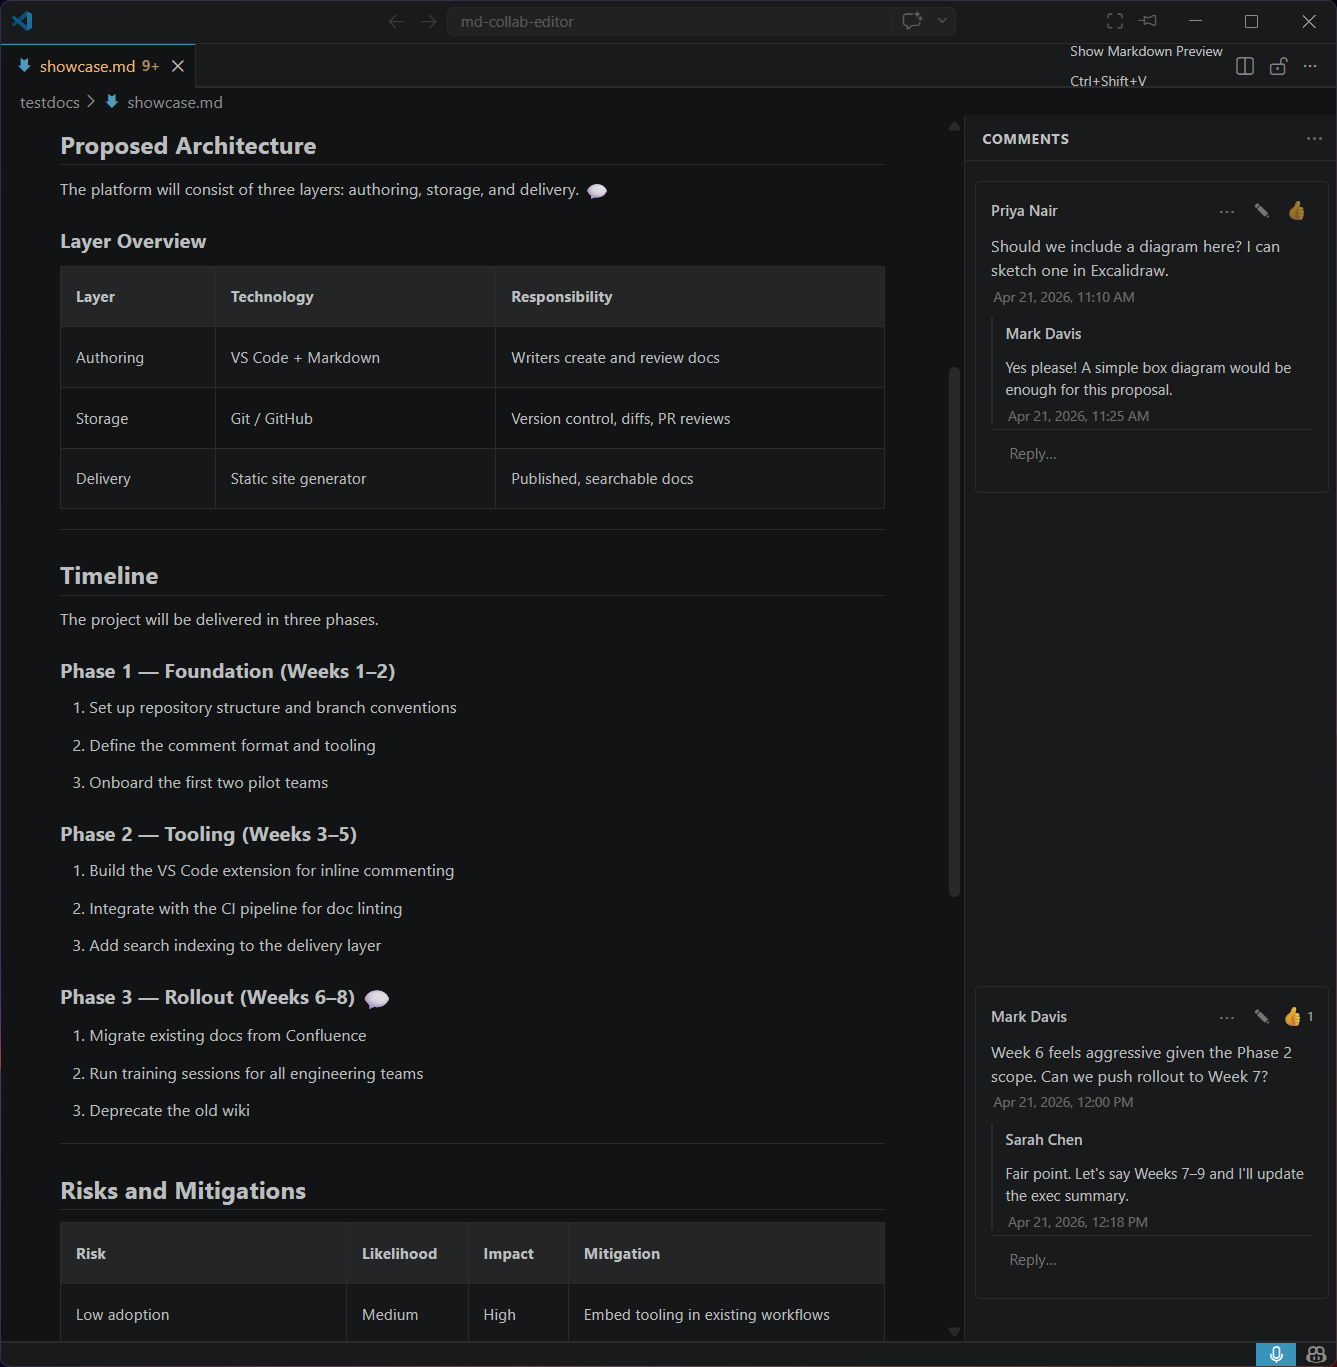
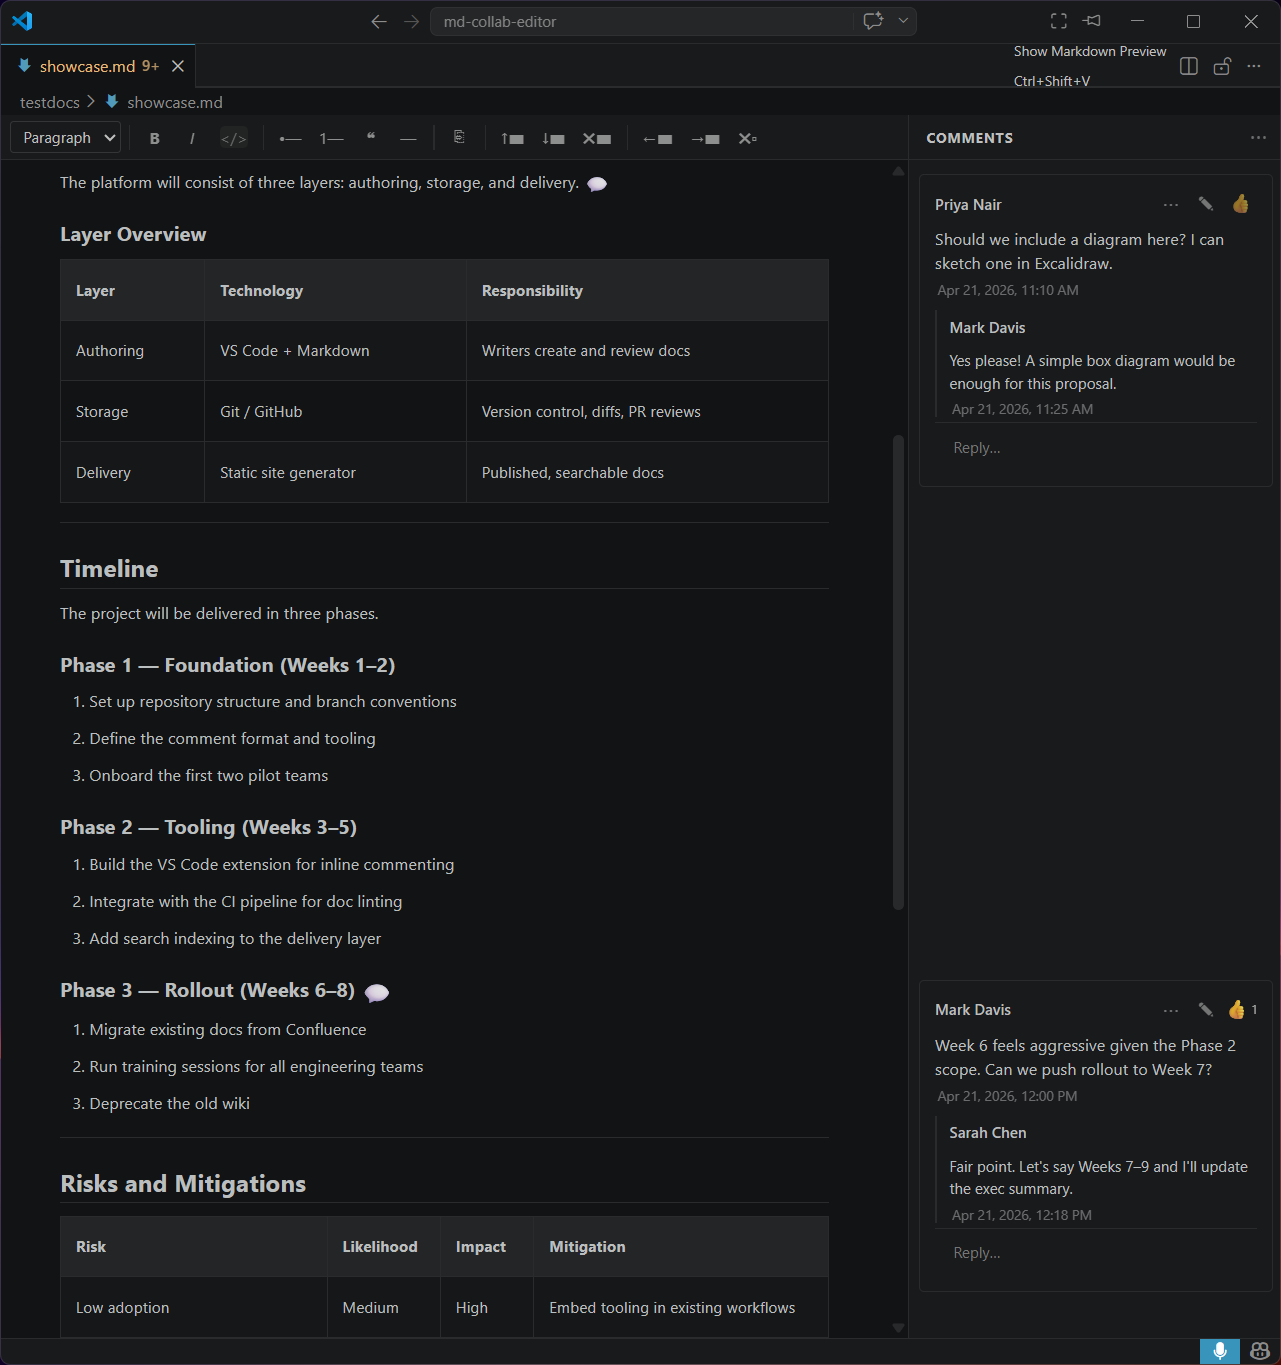
feat: enhance Markdown editor with WYSIWYG toolbar and table editing features

diff --git a/webview-src/index.ts b/webview-src/index.ts
@@ -74,7 +74,29 @@ import {
 import { commonmark } from "@milkdown/preset-commonmark";
 import { gfm } from "@milkdown/preset-gfm";
 import { listener, listenerCtx } from "@milkdown/plugin-listener";
-import { getMarkdown, replaceAll } from "@milkdown/utils";
+import { getMarkdown, replaceAll, callCommand } from "@milkdown/utils";
+import {
+  toggleStrongCommand,
+  toggleEmphasisCommand,
+  toggleInlineCodeCommand,
+  wrapInHeadingCommand,
+  wrapInBulletListCommand,
+  wrapInOrderedListCommand,
+  wrapInBlockquoteCommand,
+  turnIntoTextCommand,
+  insertHrCommand,
+} from "@milkdown/preset-commonmark";
+import {
+  insertTableCommand,
+  addRowBeforeCommand,
+  addRowAfterCommand,
+  addColBeforeCommand,
+  addColAfterCommand,
+  deleteSelectedCellsCommand,
+  selectRowCommand,
+  selectColCommand,
+} from "@milkdown/preset-gfm";
+import { cellAround, TableMap } from "prosemirror-tables";
 
 import { EditorView } from "prosemirror-view";
 
@@ -112,7 +134,7 @@ let mermaidRendering = false;
 let mermaidPendingAfterRender = false;
 
 function positionMermaidOverlays(): void {
-  const pane = document.getElementById("editor-pane")!;
+  const pane = document.getElementById("editor")!;
   const layer = document.getElementById("mermaid-layer")!;
   const paneRect = pane.getBoundingClientRect();
   layer.innerHTML = "";
@@ -197,6 +219,106 @@ function scrollToComment(commentId: string): void {
 
 const panel = new CommentPanel("threads-container", post, scrollToComment);
 
+// ── Toolbar ───────────────────────────────────────────────────────────────────
+
+function runCommand<T>(cmd: { key: string }, payload?: T): void {
+  if (!milkdownEditor) return;
+  milkdownEditor.action(callCommand(cmd.key, payload as never));
+  // Return focus to the editor after toolbar interaction
+  milkdownEditor.action((ctx) => { ctx.get(editorViewCtx).focus(); });
+}
+
+function isInTable(): boolean {
+  if (!editorView) return false;
+  const { $from } = editorView.state.selection;
+  for (let d = $from.depth; d > 0; d--) {
+    if ($from.node(d).type.name === "table") return true;
+  }
+  return false;
+}
+
+function getCurrentRowCol(): { row: number; col: number } | null {
+  if (!editorView) return null;
+  const { state } = editorView;
+  const $cell = cellAround(state.selection.$from);
+  if (!$cell) return null;
+  const table = $cell.node(-1);
+  const tableStart = $cell.start(-1);
+  const map = TableMap.get(table);
+  const cellPos = $cell.pos - tableStart;
+  const cell = map.findCell(cellPos);
+  return { row: cell.top, col: cell.left };
+}
+
+function updateToolbarState(): void {
+  if (!editorView) return;
+  const { state } = editorView;
+  const { from, $from } = state.selection;
+  const parent = $from.node(1) ?? $from.node();
+
+  // Block type selector
+  const sel = document.getElementById("tb-block-type") as HTMLSelectElement;
+  if (sel) {
+    const typeName = parent.type.name;
+    const level = parent.attrs?.level;
+    if (typeName === "heading" && level) sel.value = `h${level}`;
+    else sel.value = "paragraph";
+  }
+
+  // Active mark buttons
+  const marks = state.storedMarks ?? state.selection.$from.marks();
+  const activeMarks = new Set(marks.map((m) => m.type.name));
+  state.doc.nodesBetween(from, from, (n) => {
+    n.marks.forEach((m) => activeMarks.add(m.type.name));
+  });
+  document.getElementById("tb-bold")?.classList.toggle("active", activeMarks.has("strong"));
+  document.getElementById("tb-italic")?.classList.toggle("active", activeMarks.has("em"));
+  document.getElementById("tb-code")?.classList.toggle("active", activeMarks.has("code_inline"));
+
+  // Show/hide table toolbar section
+  const tableTools = document.getElementById("tb-table-tools");
+  if (tableTools) tableTools.style.display = isInTable() ? "flex" : "none";
+}
+
+// Block type dropdown
+document.getElementById("tb-block-type")!.addEventListener("change", (e) => {
+  const val = (e.target as HTMLSelectElement).value;
+  if (val === "paragraph") runCommand(turnIntoTextCommand);
+  else runCommand(wrapInHeadingCommand, parseInt(val.slice(1)));
+});
+
+// Format buttons
+document.getElementById("tb-bold")!.addEventListener("mousedown",  (e) => { e.preventDefault(); runCommand(toggleStrongCommand); });
+document.getElementById("tb-italic")!.addEventListener("mousedown", (e) => { e.preventDefault(); runCommand(toggleEmphasisCommand); });
+document.getElementById("tb-code")!.addEventListener("mousedown",   (e) => { e.preventDefault(); runCommand(toggleInlineCodeCommand); });
+document.getElementById("tb-ul")!.addEventListener("mousedown",     (e) => { e.preventDefault(); runCommand(wrapInBulletListCommand); });
+document.getElementById("tb-ol")!.addEventListener("mousedown",     (e) => { e.preventDefault(); runCommand(wrapInOrderedListCommand); });
+document.getElementById("tb-quote")!.addEventListener("mousedown",  (e) => { e.preventDefault(); runCommand(wrapInBlockquoteCommand); });
+document.getElementById("tb-hr")!.addEventListener("mousedown",     (e) => { e.preventDefault(); runCommand(insertHrCommand); });
+document.getElementById("tb-table")!.addEventListener("mousedown",  (e) => { e.preventDefault(); runCommand(insertTableCommand, { row: 3, col: 3 }); });
+
+// Table editing buttons (shown only when cursor is in a table)
+document.getElementById("tb-row-before")!.addEventListener("mousedown",  (e) => { e.preventDefault(); runCommand(addRowBeforeCommand); });
+document.getElementById("tb-row-after")!.addEventListener("mousedown",   (e) => { e.preventDefault(); runCommand(addRowAfterCommand); });
+document.getElementById("tb-del-row")!.addEventListener("mousedown",     (e) => {
+  e.preventDefault();
+  const pos = getCurrentRowCol();
+  if (pos === null) return;
+  milkdownEditor?.action(callCommand(selectRowCommand.key, { index: pos.row }));
+  milkdownEditor?.action(callCommand(deleteSelectedCellsCommand.key));
+  milkdownEditor?.action((ctx) => { ctx.get(editorViewCtx).focus(); });
+});
+document.getElementById("tb-col-before")!.addEventListener("mousedown",  (e) => { e.preventDefault(); runCommand(addColBeforeCommand); });
+document.getElementById("tb-col-after")!.addEventListener("mousedown",   (e) => { e.preventDefault(); runCommand(addColAfterCommand); });
+document.getElementById("tb-del-col")!.addEventListener("mousedown",     (e) => {
+  e.preventDefault();
+  const pos = getCurrentRowCol();
+  if (pos === null) return;
+  milkdownEditor?.action(callCommand(selectColCommand.key, { index: pos.col }));
+  milkdownEditor?.action(callCommand(deleteSelectedCellsCommand.key));
+  milkdownEditor?.action((ctx) => { ctx.get(editorViewCtx).focus(); });
+});
+
 // ── Milkdown setup ────────────────────────────────────────────────────────────
 
 async function createEditor(
@@ -214,6 +336,10 @@ async function createEditor(
         }
         debouncedEdit(markdown);
       });
+
+      ctx.get(listenerCtx).updated((_ctx, _doc, _prevDoc) => {
+        requestAnimationFrame(updateToolbarState);
+      });
     })
     .use(commonmark)
     .use(gfm)
@@ -224,6 +350,13 @@ async function createEditor(
   editor.action((ctx) => {
     const view = ctx.get(editorViewCtx);
     editorView = view as unknown as EditorView;
+
+    // Update toolbar on every selection change
+    const originalDispatch = view.dispatch.bind(view);
+    (view as { dispatch: typeof view.dispatch }).dispatch = (tr) => {
+      originalDispatch(tr);
+      if (tr.selectionSet || tr.docChanged) requestAnimationFrame(updateToolbarState);
+    };
 
     const anchorPlugin = createAnchorPlugin(
       anchors,
@@ -330,7 +463,7 @@ function hideCtxMenu(): void {
 // by posting an openFile message to the extension host; everything else is
 // allowed to bubble (external URLs are blocked by the webview CSP anyway).
 
-document.getElementById("editor-pane")!.addEventListener("click", (e: MouseEvent) => {
+document.getElementById("editor")!.addEventListener("click", (e: MouseEvent) => {
   const target = (e.target as Element).closest("a");
   if (!target) return;
   const href = target.getAttribute("href");
@@ -348,7 +481,7 @@ document.getElementById("editor-pane")!.addEventListener("click", (e: MouseEvent
 // Capture cursor context at right-click time (before the form opens)
 let contextMenuCursorContext: string = "";
 
-document.getElementById("editor-pane")!.addEventListener("contextmenu", (e: MouseEvent) => {
+document.getElementById("editor")!.addEventListener("contextmenu", (e: MouseEvent) => {
   e.preventDefault();
   contextMenuCursorContext = getCursorContext();
   ctxMenu.style.left = e.clientX + "px";
@@ -461,7 +594,7 @@ window.addEventListener("message", async (event: MessageEvent) => {
 });
 // ── Scroll / resize → reposition comment cards ──────────────────────────────
 
-document.getElementById("editor-pane")!.addEventListener("scroll", () => { panel.positionCards(); positionMermaidOverlays(); }, { passive: true });
+document.getElementById("editor")!.addEventListener("scroll", () => { panel.positionCards(); positionMermaidOverlays(); }, { passive: true });
 window.addEventListener("resize", () => { panel.positionCards(); positionMermaidOverlays(); });
 // ── Ready signal ──────────────────────────────────────────────────────────────
 

diff --git a/media/editor.css b/media/editor.css
@@ -14,9 +14,80 @@ body {
 #editor-pane {
   flex: 1;
   overflow-y: auto;
-  padding: 32px 48px;
+  padding: 0;
   min-width: 0;
   position: relative;
+  display: flex;
+  flex-direction: column;
+}
+
+#editor {
+  flex: 1;
+  padding: 32px 48px;
+  overflow-y: auto;
+}
+
+/* ── Toolbar ──────────────────────────────────────── */
+#toolbar {
+  display: flex;
+  align-items: center;
+  gap: 2px;
+  padding: 0 8px;
+  height: 36px;
+  box-sizing: border-box;
+  border-bottom: 1px solid var(--vscode-panel-border);
+  background: var(--vscode-editorGroupHeader-tabsBackground, var(--vscode-editor-background));
+  flex-shrink: 0;
+  flex-wrap: wrap;
+  user-select: none;
+}
+
+#tb-block-type {
+  height: 26px;
+  padding: 0 6px;
+  font-size: 12px;
+  font-family: var(--vscode-font-family);
+  background: var(--vscode-dropdown-background);
+  color: var(--vscode-dropdown-foreground);
+  border: 1px solid var(--vscode-dropdown-border);
+  border-radius: 3px;
+  cursor: pointer;
+  outline: none;
+}
+#tb-block-type:focus { border-color: var(--vscode-focusBorder); }
+
+.tb-divider {
+  width: 1px;
+  height: 20px;
+  background: var(--vscode-panel-border);
+  margin: 0 4px;
+  flex-shrink: 0;
+}
+
+.tb-btn {
+  display: inline-flex;
+  align-items: center;
+  justify-content: center;
+  min-width: 28px;
+  height: 26px;
+  padding: 0 5px;
+  font-size: 13px;
+  font-family: var(--vscode-font-family);
+  border: 1px solid transparent;
+  border-radius: 3px;
+  background: transparent;
+  color: var(--vscode-foreground);
+  cursor: pointer;
+  opacity: 0.7;
+  transition: opacity 0.1s, background 0.1s;
+}
+.tb-btn:hover { opacity: 1; background: var(--vscode-toolbar-hoverBackground); border-color: var(--vscode-panel-border); }
+.tb-btn.active { opacity: 1; background: var(--vscode-toolbar-activeBackground, rgba(128,128,128,0.2)); border-color: var(--vscode-focusBorder); }
+.tb-btn.danger:hover { color: var(--vscode-inputValidation-errorBorder); opacity: 1; }
+
+#tb-table-tools {
+  align-items: center;
+  gap: 2px;
 }
 
 #comment-pane {
@@ -189,7 +260,9 @@ body {
 
 /* ── Comment pane header ──────────────────────── */
 .pane-header {
-  padding: 6px 8px 6px 14px;
+  padding: 0 8px 0 14px;
+  height: 36px;
+  box-sizing: border-box;
   font-size: 11px;
   font-weight: 700;
   text-transform: uppercase;

diff --git a/src/MarkdownEditorProvider.ts b/src/MarkdownEditorProvider.ts
@@ -305,6 +305,36 @@ export class MarkdownEditorProvider implements vscode.CustomTextEditorProvider {
 <body>
   <div id="app">
     <div id="editor-pane">
+      <div id="toolbar">
+        <select id="tb-block-type" title="Block type">
+          <option value="paragraph">Paragraph</option>
+          <option value="h1">Heading 1</option>
+          <option value="h2">Heading 2</option>
+          <option value="h3">Heading 3</option>
+          <option value="h4">Heading 4</option>
+        </select>
+        <span class="tb-divider"></span>
+        <button class="tb-btn" id="tb-bold"      title="Bold (Ctrl+B)"><b>B</b></button>
+        <button class="tb-btn" id="tb-italic"    title="Italic (Ctrl+I)"><i>I</i></button>
+        <button class="tb-btn" id="tb-code"      title="Inline code"><code>&lt;/&gt;</code></button>
+        <span class="tb-divider"></span>
+        <button class="tb-btn" id="tb-ul"        title="Bullet list">&#8226;&#8212;</button>
+        <button class="tb-btn" id="tb-ol"        title="Numbered list">1&#8212;</button>
+        <button class="tb-btn" id="tb-quote"     title="Blockquote">&#10077;</button>
+        <button class="tb-btn" id="tb-hr"        title="Horizontal rule">&#8213;</button>
+        <span class="tb-divider"></span>
+        <button class="tb-btn" id="tb-table"     title="Insert table">&#9112;</button>
+        <span id="tb-table-tools" style="display:none">
+          <span class="tb-divider" style="display:inline-block"></span>
+          <button class="tb-btn" id="tb-row-before" title="Add row above">&#8593;&#9644;</button>
+          <button class="tb-btn" id="tb-row-after"  title="Add row below">&#8595;&#9644;</button>
+          <button class="tb-btn danger" id="tb-del-row"    title="Delete row">&#10006;&#9644;</button>
+          <span class="tb-divider" style="display:inline-block"></span>
+          <button class="tb-btn" id="tb-col-before" title="Add column left">&#8592;&#9644;</button>
+          <button class="tb-btn" id="tb-col-after"  title="Add column right">&#8594;&#9644;</button>
+          <button class="tb-btn danger" id="tb-del-col"    title="Delete column">&#10006;&#9643;</button>
+        </span>
+      </div>
       <div id="editor"></div>
       <div id="mermaid-layer"></div>
     </div>
